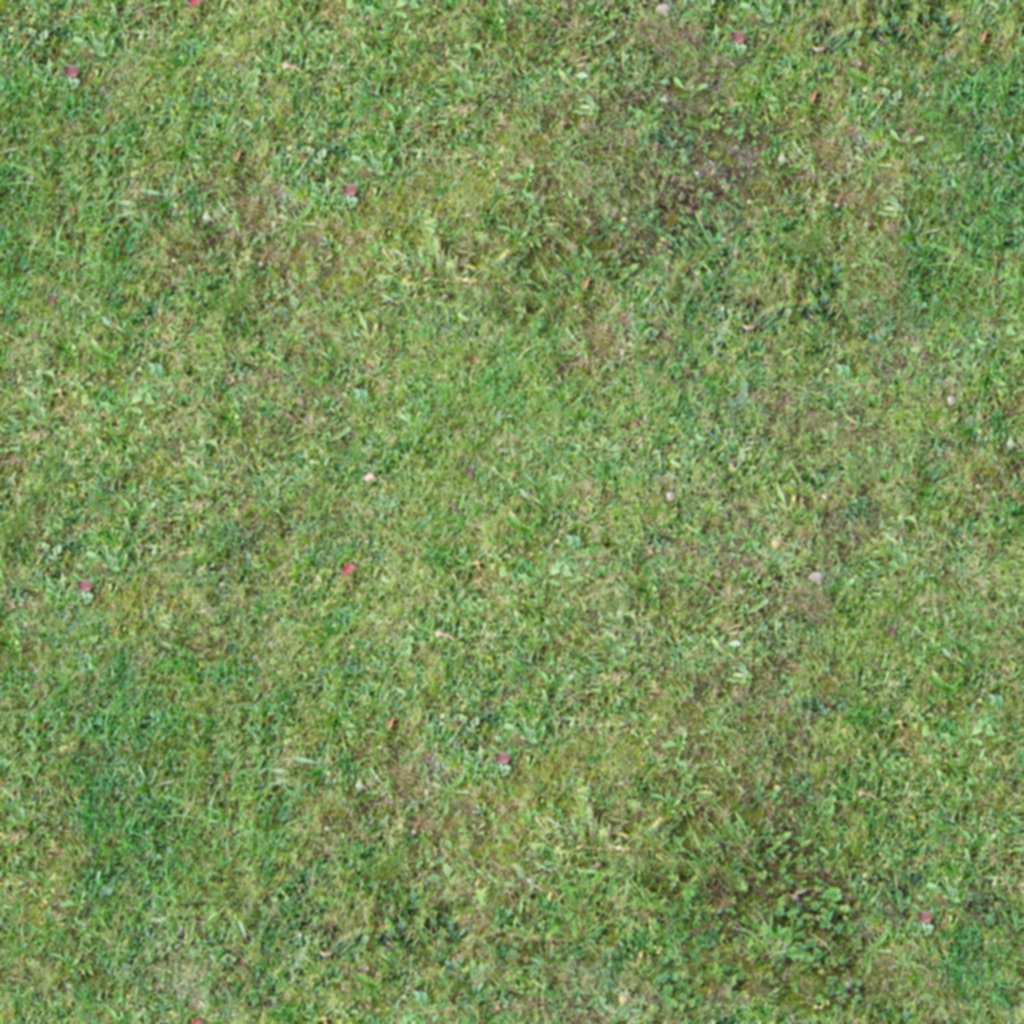
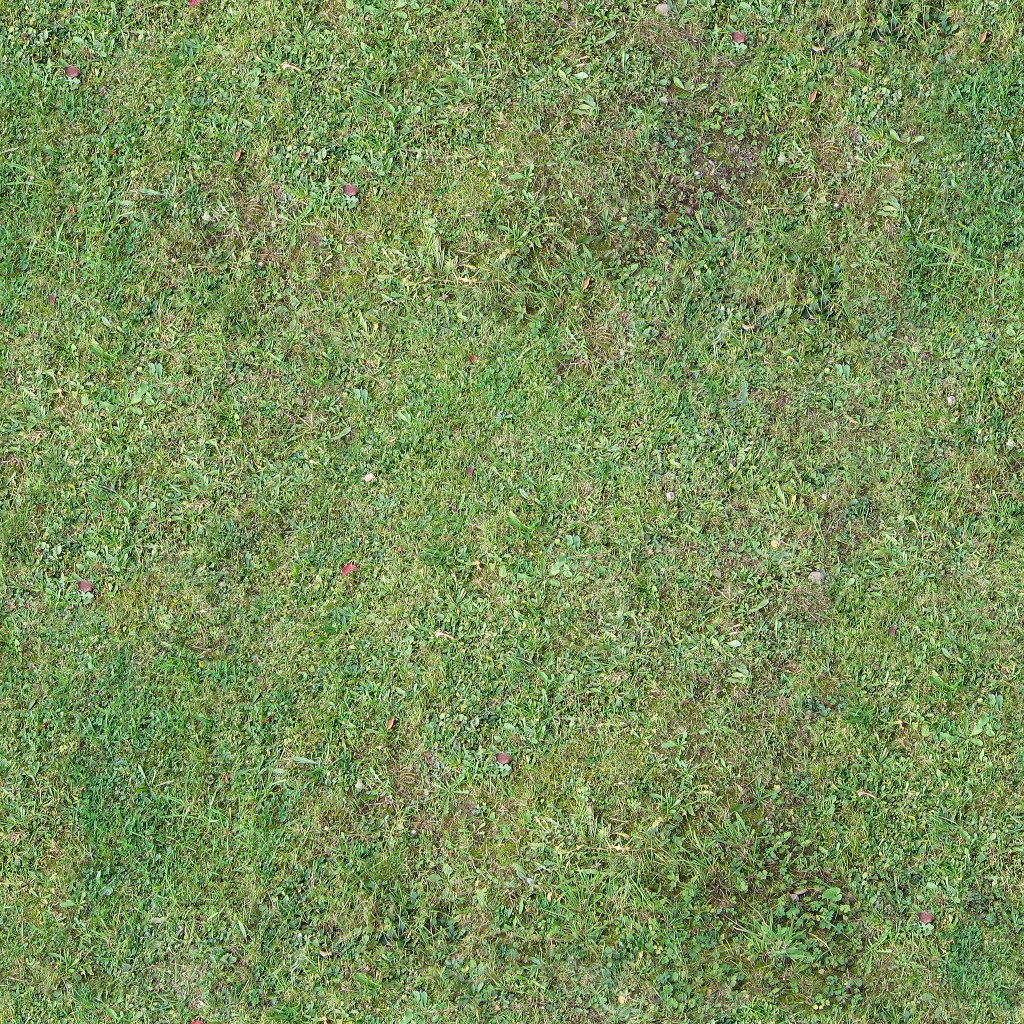
Added FilterTextureSGNode which introduces mipmapped textures

diff --git a/main.js b/main.js
@@ -127,7 +127,7 @@ function initCubeMap(resources) {
   gl.texParameteri(gl.TEXTURE_CUBE_MAP, gl.TEXTURE_WRAP_T, gl.MIRRORED_REPEAT);
   //gl.texParameteri(gl.TEXTURE_CUBE_MAP, gl.TEXTURE_WRAP_R, gl.MIRRORED_REPEAT); //will be available in WebGL 2
   gl.texParameteri(gl.TEXTURE_CUBE_MAP, gl.TEXTURE_MIN_FILTER, gl.LINEAR_MIPMAP_LINEAR);
-  gl.texParameteri(gl.TEXTURE_CUBE_MAP, gl.TEXTURE_MAG_FILTER, gl.LINEAR_MIPMAP_LINEAR);
+  gl.texParameteri(gl.TEXTURE_CUBE_MAP, gl.TEXTURE_MAG_FILTER, gl.LINEAR);
   //set correct image for each side of the cube map
   gl.texImage2D(gl.TEXTURE_CUBE_MAP_POSITIVE_X, 0, gl.RGBA, gl.RGBA, gl.UNSIGNED_BYTE, resources.env_day_pos_x);
   gl.texImage2D(gl.TEXTURE_CUBE_MAP_NEGATIVE_X, 0, gl.RGBA, gl.RGBA, gl.UNSIGNED_BYTE, resources.env_day_neg_x);
@@ -137,6 +137,10 @@ function initCubeMap(resources) {
   gl.texImage2D(gl.TEXTURE_CUBE_MAP_NEGATIVE_Z, 0, gl.RGBA, gl.RGBA, gl.UNSIGNED_BYTE, resources.env_day_neg_z);
   //generate mipmaps (optional)
   gl.generateMipmap(gl.TEXTURE_CUBE_MAP);
+  // enable anisotropic filtering
+  var ext = gl.getExtension("WEBKIT_EXT_texture_filter_anisotropic");
+  var max_anisotropy = gl.getParameter(ext.MAX_TEXTURE_MAX_ANISOTROPY_EXT);
+  gl.texParameterf(gl.TEXTURE_CUBE_MAP, ext.TEXTURE_MAX_ANISOTROPY_EXT, max_anisotropy);
   //unbind the texture again
   gl.bindTexture(gl.TEXTURE_CUBE_MAP, null);
 
@@ -201,7 +205,7 @@ function createSceneGraph(gl, resources) {
   vehicle.specular = [0.628281, 0.555802, 0.666065, 1];
   vehicle.shininess = 0.4;
 
-  let islandPlane = new ShaderSGNode(createProgram(gl, resources.vs_tex3d, resources.fs_tex3d), [ new MaterialSGNode([ new AdvancedTextureSGNode(resources.tex_grass, [ new RenderSGNode(resources.island_plane) ]) ]) ]);
+  let islandPlane = new ShaderSGNode(createProgram(gl, resources.vs_tex3d, resources.fs_tex3d), [ new MaterialSGNode([ new FilterTextureSGNode(resources.tex_grass, 0.2, [ new RenderSGNode(resources.island_plane) ]) ]) ]);
   islandPlane.ambient = [0, 0.3, 0, 1];
   islandPlane.diffuse = [0.52, 0.86, 0.12, 1];
   islandPlane.specular = [0.1, 0.2, 0.15, 0.];
@@ -211,7 +215,7 @@ function createSceneGraph(gl, resources) {
   root.append(rotateIslandPlane);
 
   // lower part of the island
-  let islandBody = new ShaderSGNode(createProgram(gl, resources.vs_tex3d, resources.fs_tex3d), [ new MaterialSGNode([ new AdvancedTextureSGNode(resources.tex_dry, [ new RenderSGNode(resources.island_body) ]) ]) ]);
+  let islandBody = new ShaderSGNode(createProgram(gl, resources.vs_tex3d, resources.fs_tex3d), [ new MaterialSGNode([ new FilterTextureSGNode(resources.tex_dry, 0.05, [ new RenderSGNode(resources.island_body) ]) ]) ]);
   islandBody.ambient = [0, 0.3, 0, 1];
   islandBody.diffuse = [0.52, 0.86, 0.12, 1];
   islandBody.specular = [0.1, 0.2, 0.15, 0.];
@@ -233,7 +237,7 @@ function createSceneGraph(gl, resources) {
   root.append(coordinateCross);
 
   // tex_tree billboard
-  let billboard = new TransformationSGNode(mat4.create(), [new TransformationSGNode(glm.transform({ translate: [2, 1, 8], scale: 0.75, rotateX : -90, rotateZ : -90 }),  [new ShaderSGNode(createProgram(gl, resources.vs_tex, resources.fs_tex), [new MaterialSGNode([new AdvancedTextureSGNode(resources.tex_tree, [new RenderSGNode(makeBillboard())])])])])]);
+  let billboard = new TransformationSGNode(mat4.create(), [new TransformationSGNode(glm.transform({ translate: [2, 1, 8], scale: 0.75, rotateX : -90, rotateZ : -90 }),  [new ShaderSGNode(createProgram(gl, resources.vs_tex, resources.fs_tex), [new MaterialSGNode([new FilterTextureSGNode(resources.tex_tree, 1.0, [new RenderSGNode(makeBillboard())])])])])]);
   root.append(billboard);
 
   vehicleNode = new TransformationSGNode(mat4.create(), [

diff --git a/nodes/FilterTextureSGNode.js b/nodes/FilterTextureSGNode.js
@@ -1,0 +1,80 @@
+/* works just like AdvancedTextureSGNode except that it uses mipmapping to reduce texture flickering noise.
+* furthermore for texture3d shaders you can supply a scale factor which defines how the texture should be scaled onto the object */
+
+class FilterTextureSGNode extends SGNode {
+    constructor(image, scale, children ) {
+        super(children);
+        this.image = image;
+        this.textureunit = 0;
+        this.uniform = 'u_tex';
+        this.textureId = -1;
+        this.scale = scale || 1.0;
+    }
+
+    init(gl) {
+        this.textureId = gl.createTexture();
+        gl.bindTexture(gl.TEXTURE_2D, this.textureId);
+
+        // enable mipmaps
+        gl.texParameteri(gl.TEXTURE_2D, gl.TEXTURE_MAG_FILTER, this.magFilter || gl.LINEAR);
+        gl.texParameteri(gl.TEXTURE_2D, gl.TEXTURE_MIN_FILTER, this.minFilter || gl.LINEAR_MIPMAP_LINEAR);
+
+        gl.texParameteri(gl.TEXTURE_2D, gl.TEXTURE_WRAP_S, this.wrapS || gl.REPEAT);
+        gl.texParameteri(gl.TEXTURE_2D, gl.TEXTURE_WRAP_T, this.wrapT || gl.REPEAT);
+
+        gl.texImage2D(gl.TEXTURE_2D, 0, gl.RGBA, gl.RGBA, gl.UNSIGNED_BYTE, this.image);
+
+        // mipmap needed for mimap filter
+        gl.generateMipmap(gl.TEXTURE_2D);
+
+        gl.bindTexture(gl.TEXTURE_2D, null);
+    }
+
+    render(context) {
+        if (this.textureId < 0) {
+            this.init(context.gl);
+        }
+
+        gl.uniform1f(gl.getUniformLocation(context.shader, "u_scale"), this.scale);
+
+        //set additional shader parameters
+        gl.uniform1i(gl.getUniformLocation(context.shader, this.uniform), this.textureunit);
+
+        //activate and bind texture
+        gl.activeTexture(gl.TEXTURE0 + this.textureunit);
+        gl.bindTexture(gl.TEXTURE_2D, this.textureId);
+
+
+        // used for antistropic filtering
+        /*var textureSizeLocation = gl.getUniformLocation(context.shader, "u_textureSize");
+
+        gl.uniform2f(textureSizeLocation, this.image.width, this.image.height);
+
+        var kernelLocation = gl.getUniformLocation(context.shader, "u_kernel[0]");
+        var kernelWeightLocation = gl.getUniformLocation(context.shader, "u_kernelWeight");
+
+        function computeKernelWeight(kernel) {
+            var weight = kernel.reduce(function(prev, curr) {
+                return prev + curr;
+            });
+            return weight <= 0 ? 1 : weight;
+        }
+
+        var gaussianBlur = [
+            0.045, 0.122, 0.045,
+            0.122, 0.332, 0.122,
+            0.045, 0.122, 0.045
+        ];
+        gl.uniform1fv(kernelLocation, gaussianBlur);
+        gl.uniform1f(kernelWeightLocation, computeKernelWeight(gaussianBlur));*/
+
+        //render children
+        super.render(context);
+
+        //clean up
+        gl.activeTexture(gl.TEXTURE0 + this.textureunit);
+        gl.bindTexture(gl.TEXTURE_2D, null);
+    }
+
+
+}

diff --git a/index.html b/index.html
@@ -12,6 +12,7 @@
     <!--include the main script-->
     <script src="main.js"></script>
 
+    <script src="nodes/FilterTextureSGNode.js"></script>
     <script src="nodes/EnvironmentSGNode.js"></script>
     <script src="nodes/ShadowSGNode.js"></script>
     <script src="nodes/TextureSGNode.js"></script>
